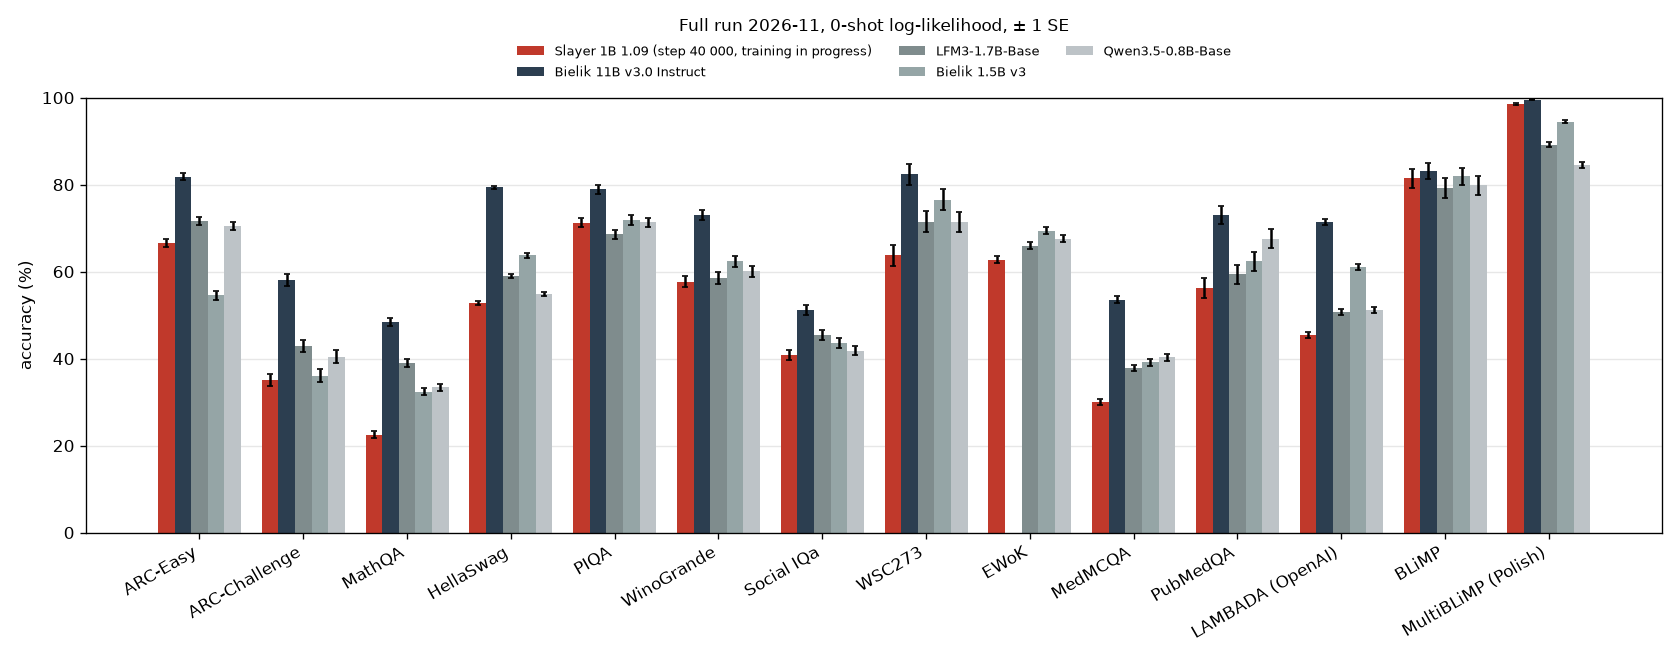
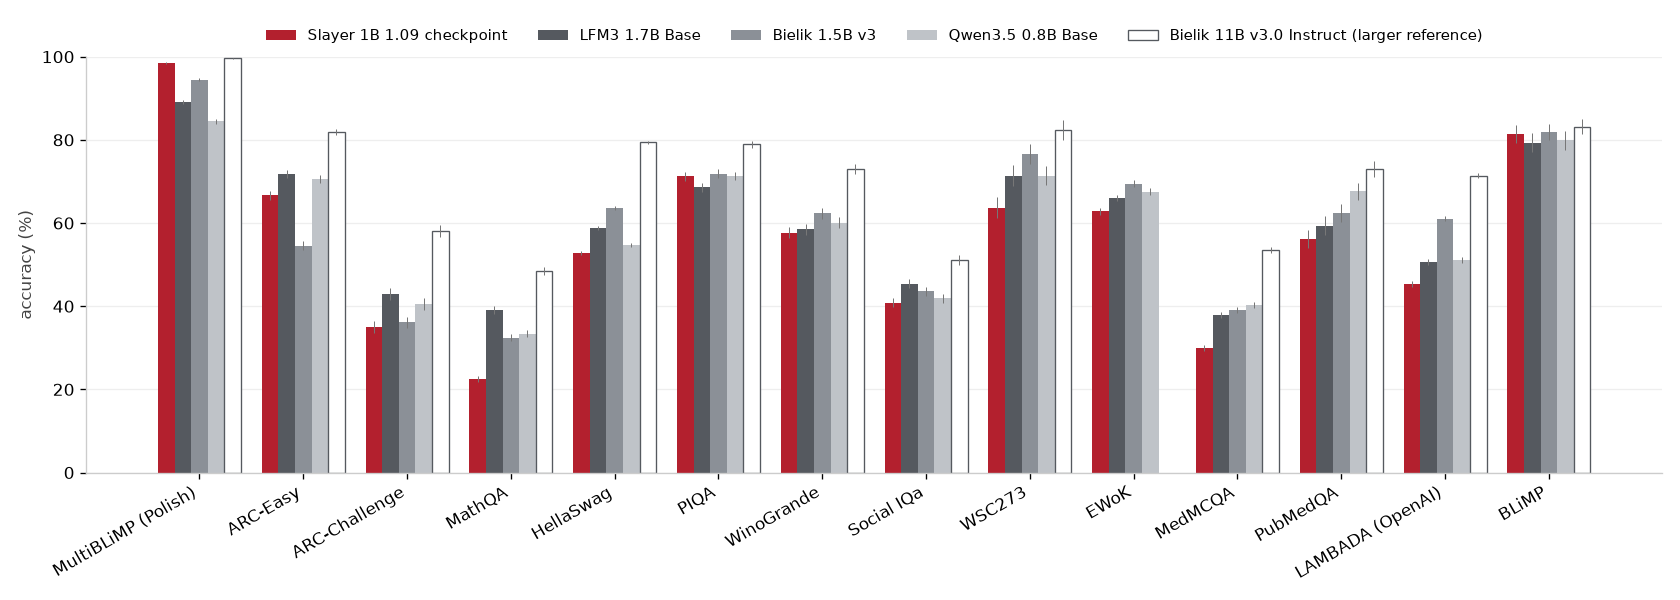
feat(benchmarks): one simple headline table on the results page
The page opens with one table: the four small models ranked per row (best
bold, second underlined), Bielik 11B as an unranked larger reference,
Polish first, values without SE. The chart follows the same models.

diff --git a/benchmarks/src/codesota/leaderboard.py b/benchmarks/src/codesota/leaderboard.py
@@ -19,7 +19,7 @@ import sys
 from collections.abc import Iterable, Sequence
 from dataclasses import asdict, dataclass
 from pathlib import Path
-from typing import Final
+from typing import Any, Final
 
 from codesota import catalog
 
@@ -303,51 +303,107 @@ def cell(r: Result | None) -> str:
     return shown(r) + (" †" if r.review_flag != "ok" else "")
 
 
+# The headline table: the latest Slayer and the models of its size class, ranked per row, then a larger reference
+# shown next to them but not ranked. Column headers: name and a second line.
+RANKED: Final = (LATEST_SLAYER, "lfm3-1.7b-base", "bielik-1.5b-v3", "qwen3.5-0.8b-base")
+LARGER: Final = ("bielik-11b-v3-instruct",)
+HEADER: Final[dict[str, tuple[str, str]]] = {
+    LATEST_SLAYER: ("Slayer 1B", "1.09 checkpoint"),
+    "lfm3-1.7b-base": ("LFM3", "1.7B Base"),
+    "bielik-1.5b-v3": ("Bielik", "1.5B v3"),
+    "qwen3.5-0.8b-base": ("Qwen3.5", "0.8B Base"),
+    "bielik-11b-v3-instruct": ("Bielik 11B", "v3.0 Instruct"),
+}
+# Row groups of the headline table: Polish first, then English by category.
+SECTIONS: Final[tuple[tuple[str, tuple[str, ...]], ...]] = (
+    ("Polish", CATEGORIES["Polish"]),
+    ("English · reasoning and science", CATEGORIES["Reasoning and science"]),
+    ("English · commonsense", CATEGORIES["Commonsense"]),
+    ("English · medical knowledge", CATEGORIES["Knowledge (medical)"]),
+    ("English · language modeling and grammar", CATEGORIES["Language modeling and linguistics"]),
+)
+
+
+def value_text(r: Result) -> str:
+    """The value alone, as the headline shows it: accuracy in percent with one decimal, perplexity with three."""
+    if r.unit == "byte_ppl":
+        return f"{r.value:.3f}"
+    return f"{r.value * (1.0 if r.unit == 'percent' else 100.0):.1f}"
+
+
+def ranks(cells: Sequence[Result | None]) -> list[int | None]:
+    """Rank of each cell among the others (1 = best), by the shown value, so equal shown values share a rank."""
+    present = [c for c in cells if c is not None]
+    values = sorted({float(value_text(c)) for c in present}, reverse=present[0].higher_is_better)
+    return [None if c is None else values.index(float(value_text(c))) + 1 for c in cells]
+
+
+def _marked(text: str, rank: int | None) -> str:
+    return f"<b>{text}</b>" if rank == 1 else f"<ins>{text}</ins>" if rank == 2 else text
+
+
+def headline_table(rows: Sequence[Result]) -> list[str]:
+    """The headline as an HTML table (GitHub renders it; Markdown tables cannot have group rows)."""
+    by = {(r.benchmark, r.model): r for r in rows if r.protocol == "full-run-2026-11"}
+    models = (*RANKED, *LARGER)
+    head = "".join(f"<th>{HEADER[m][0]}<br><sub>{HEADER[m][1]}</sub></th>" for m in models)
+    lines = ["<table>", f'<tr><th align="left">Benchmark</th>{head}</tr>']
+    for section, benchmarks in SECTIONS:
+        lines.append(f'<tr><td colspan="{1 + len(models)}"><b>{section}</b></td></tr>')
+        for b in benchmarks:
+            cells = [by.get((b, m)) for m in models]
+            if all(c is None for c in cells):
+                continue
+            ranked = ranks(cells[: len(RANKED)]) + [None] * len(LARGER)
+            first = next(c for c in cells if c is not None)
+            name = benchmark_name(b) + ("" if first.higher_is_better else " ↓")
+            tds = "".join(
+                f'<td align="right">{"n/a" if c is None else _marked(value_text(c), k)}</td>'
+                for c, k in zip(cells, ranked, strict=True)
+            )
+            lines.append(f"<tr><td>{name}</td>{tds}</tr>")
+    lines.append("</table>")
+    return lines
+
+
 def readme(rows: Sequence[Result]) -> str:
-    log_lik = [r for r in rows if r.protocol == "full-run-2026-11"]
+    ifeval_rows = {r.model: r for r in rows if r.benchmark == "ifeval"}
+    slayer_if, bielik_if = ifeval_rows["slayer1b-1.08"], ifeval_rows["bielik-11b-v3.1"]
     lines = [
         "# Results",
         "",
-        "Every published result of this repository in one place, generated from the research pipeline's result files",
-        "by `python -m codesota.leaderboard` (do not edit by hand). Slayer 1B first, next to reference models.",
+        "Slayer 1B next to models of its size, on the same benchmarks with the same settings.",
+        "",
+        *headline_table(rows),
+        "",
+        "Accuracy in %, 0-shot. ↓ lower is better (WikiText-2: perplexity per byte). **Bold**: best of the four "
+        "small models, <ins>underlined</ins>: second. Bielik 11B is about ten times larger and is shown for "
+        "reference, without a rank.",
+        "",
+        f"**Instruction following (IFEval):** Bielik 11B v3.1 Instruct {value_text(bielik_if)}, "
+        f"Slayer 1B 1.08 {value_text(slayer_if)}. Slayer is a base model without a chat template, so its score "
+        "mostly reflects broken output, not instruction following. [Details](instruction-following.md).",
+        "",
+        '<p align="center"><img src="charts/headline.png" alt="Accuracy per benchmark: Slayer 1B 1.09 and the '
+        'reference models" width="100%"></p>',
         "",
         "[All models](all-models.md) · [Instruction following](instruction-following.md) · "
         "[All results as JSONL](results.jsonl) · [Benchmark status](../BENCHMARKS.md)",
         "",
-        '<p align="center"><img src="charts/headline.png" alt="Slayer 1B 1.09 and reference models, accuracy '
-        'per benchmark" width="100%"></p>',
+        "## Notes",
         "",
-        "## Headline",
-        "",
-        f"Value ± standard error; accuracies in percent. Protocol: {PROTOCOLS['full-run-2026-11']} {SE_NOTE}",
-        "",
-    ]
-    for category, benchmarks in CATEGORIES.items():
-        if category == "Instruction following":
-            continue
-        lines += [f"### {category}", "", *table(log_lik, HEADLINE, benchmarks), ""]
-    lines += [
-        "### Instruction following",
-        "",
-        "Bielik 11B is v3.1 here; the log-likelihood tables above have v3.0, the version the full run measured. "
-        f"{PROTOCOLS['ifeval-api']} {SLAYER_IFEVAL_NOTE} Every IFEval result, with the other setups: "
-        "[instruction-following.md](instruction-following.md).",
-        "",
-        *_ifeval_table(rows, ("slayer1b-1.08", "bielik-11b-v3.1")),
-        "",
-        "## Read with care",
-        "",
-        "- **Not one class.** Bielik 11B has ten times the parameters of the others, and it and LFM3-1.7B "
-        "(in the full tables) are instruction-tuned models scored here on raw text.",
-        "- **Slayer 1B 1.09 at step 40 000 is a training checkpoint**, not a release; its result is preliminary. The "
-        "research report of the run keeps it out of its comparison table for that reason; it leads this page as the "
-        "latest Slayer measured.",
-        "- **Flags.** Results the research review flagged for checking are marked † in the "
-        "[full tables](all-models.md); none is in the headline.",
-        "- **A difference between two models needs a paired test**, not two overlapping intervals; the research "
-        "report has them ([full run](../../research/results/full-run-2026-11/README.md)).",
-        "- **Status.** Only benchmarks marked `verified` in [BENCHMARKS.md](../BENCHMARKS.md) have a reproduced "
-        "reference result; the others are measurements without that check.",
+        "- **Slayer 1B 1.09 is a training checkpoint** (step 40 000), not a release.",
+        "- **How it was measured:** the full test set of each benchmark, 0-shot, each answer scored by the "
+        "model's probability of it (lm-eval; BLiMP and EWoK: their own code), float32 (Bielik 11B: bfloat16), "
+        "no chat template. Slayer's "
+        "inputs start with one BOS token, the other models' with none.",
+        "- **Small differences are noise.** Values with their standard errors are in [all models](all-models.md) "
+        f"and [`results.jsonl`](results.jsonl); a difference of one or two points is often within them. {SE_NOTE}",
+        "- **Bielik 11B and LFM3-1.7B (in the full tables) are instruction-tuned**, scored here on raw text like "
+        "the base models.",
+        "- Results flagged for checking by the research review are marked † in the [full tables](all-models.md); "
+        "none is on this page.",
+        "- Generated by `python -m codesota.leaderboard` from the result files below; do not edit by hand.",
         "",
         "## Sources",
         "",
@@ -480,12 +536,21 @@ def charts(rows: Sequence[Result], out: Path) -> None:
     import matplotlib.pyplot as plt
 
     log_lik = [r for r in rows if r.protocol == "full-run-2026-11" and r.unit != "byte_ppl"]
-    benchmarks = [b for bs in CATEGORIES.values() for b in bs if any(r.benchmark == b for r in log_lik)]
+    benchmarks = [b for _, bs in SECTIONS for b in bs if any(r.benchmark == b for r in log_lik)]
     by = {(r.benchmark, r.model): r for r in log_lik}
-    width = 0.8 / len(HEADLINE)
-    fig, ax = plt.subplots(figsize=(14, 5.5), dpi=120)
-    colors = ("#c0392b", "#2c3e50", "#7f8c8d", "#95a5a6", "#bdc3c7")
-    for i, (m, color) in enumerate(zip(HEADLINE, colors, strict=True)):
+    models = (*RANKED, *LARGER)
+    width = 0.8 / len(models)
+    plt.rcParams.update({"font.family": "DejaVu Sans", "axes.edgecolor": "#cccccc", "axes.labelcolor": "#444444"})
+    fig, ax = plt.subplots(figsize=(14, 5), dpi=120)
+    # Slayer in red, the other small models in greys, the larger reference as an outline.
+    styles: tuple[dict[str, Any], ...] = (
+        {"color": "#b3202e"},
+        {"color": "#55595f"},
+        {"color": "#8b9097"},
+        {"color": "#bfc3c8"},
+        {"color": "white", "edgecolor": "#55595f", "linewidth": 0.8},
+    )
+    for i, (m, style) in enumerate(zip(models, styles, strict=True)):
         xs, ys, es = [], [], []
         for j, b in enumerate(benchmarks):
             r = by.get((b, m))
@@ -495,14 +560,15 @@ def charts(rows: Sequence[Result], out: Path) -> None:
             xs.append(j - 0.4 + width * (i + 0.5))
             ys.append(r.value * scale)
             es.append((r.se or 0.0) * scale)
-        ax.bar(xs, ys, width, yerr=es, color=color, label=MODELS[m].name, capsize=2, linewidth=0)
+        label = " ".join(HEADER[m]) + (" (larger reference)" if m in LARGER else "")
+        ax.bar(xs, ys, width, yerr=es, label=label, error_kw={"elinewidth": 0.6, "ecolor": "#777777"}, **style)
     ax.set_xticks(range(len(benchmarks)), [benchmark_name(b) for b in benchmarks], rotation=30, ha="right")
     ax.set_ylabel("accuracy (%)")
     ax.set_ylim(0, 100)
-    ax.grid(axis="y", alpha=0.3)
+    ax.grid(axis="y", color="#eeeeee")
     ax.set_axisbelow(True)
-    ax.legend(ncol=3, fontsize=8, frameon=False, loc="upper center", bbox_to_anchor=(0.5, 1.15))
-    ax.set_title("Full run 2026-11, 0-shot log-likelihood, ± 1 SE", fontsize=10, pad=40)
+    ax.spines[["top", "right"]].set_visible(False)
+    ax.legend(ncol=5, fontsize=9, frameon=False, loc="upper center", bbox_to_anchor=(0.5, 1.1))
     fig.tight_layout()
     out.mkdir(parents=True, exist_ok=True)
     fig.savefig(out / "headline.png", metadata={"Software": None})

diff --git a/benchmarks/tests/test_leaderboard.py b/benchmarks/tests/test_leaderboard.py
@@ -5,6 +5,7 @@ column, a wrong scale, a lost standard error, or a swapped file fails a test.
 """
 
 import json
+import re
 from pathlib import Path
 from typing import Any
 
@@ -72,32 +73,51 @@ def test_every_ifeval_row_matches_its_file() -> None:
         assert row["model"] in (src["model"], f"{src['model']}-ifeval")
 
 
-def test_headline_cells_show_each_model_s_own_source_value() -> None:
-    """Every cell of the headline tables, recomputed from manifest.jsonl for its column's model."""
-    src = {(r["benchmark"], r["model"]): r for r in published()}
+def headline_rows() -> list[tuple[str, list[str]]]:
+    """The benchmark rows of the headline table: the benchmark's name and its cells' HTML."""
     readme = (leaderboard.OUT / "README.md").read_text(encoding="utf-8")
+    out = []
+    for row in re.findall(r"<tr><td>(.*?)</td>(.*?)</tr>", readme):
+        out.append((row[0], re.findall(r'<td align="right">(.*?)</td>', row[1])))
+    return out
+
+
+def test_headline_cells_show_each_model_s_own_source_value() -> None:
+    """Every cell of the headline table, recomputed from manifest.jsonl for its column's model."""
+    src = {(r["benchmark"], r["model"]): r for r in published()}
     names = {leaderboard.benchmark_name(b): b for b in leaderboard.CATEGORY_OF}
+    models = (*leaderboard.RANKED, *leaderboard.LARGER)
     checked = 0
-    for line in readme.splitlines():
-        cells = [c.strip() for c in line.strip("|").split("|")]
-        if not line.startswith("| ") or cells[0] not in names or len(cells) != 2 + len(leaderboard.HEADLINE):
-            continue
-        benchmark = names[cells[0]]
-        for model, text in zip(leaderboard.HEADLINE, cells[2:], strict=True):
+    for name, cells in headline_rows():
+        benchmark = names[name.removesuffix(" ↓")]
+        assert len(cells) == len(models)
+        for model, text in zip(models, cells, strict=True):
             row = src.get((benchmark, model))
             if row is None:
                 assert text == "n/a"
                 continue
             scale = 1.0 if row["metryka"] in ("accuracy", "byte_perplexity,none") else 100.0
             digits = 3 if row["metryka"].startswith("byte_perplexity") else 1
-            expected = f"{row['wartosc'] * scale:.{digits}f} ± {row['se'] * scale:.{digits}f}"
-            assert text == expected, (benchmark, model)
+            assert re.sub(r"</?(b|ins)>", "", text) == f"{row['wartosc'] * scale:.{digits}f}", (benchmark, model)
             checked += 1
     assert checked >= 60
 
 
+def test_headline_marks_the_best_and_second_of_the_ranked_models() -> None:
+    """Bold is the best shown value of the ranked models, underlined the next one; the cells' values are checked
+    against the sources above."""
+    n = len(leaderboard.RANKED)
+    for name, cells in headline_rows():
+        values = [float(re.sub(r"</?(b|ins)>", "", t)) for t in cells[:n]]
+        order = sorted(set(values), reverse=not name.endswith(" ↓"))
+        for value, text in zip(values, cells[:n], strict=True):
+            assert text.startswith("<b>") == (value == order[0]), (name, text)
+            assert text.startswith("<ins>") == (value == order[1]), (name, text)
+        assert not any(t.startswith(("<b>", "<ins>")) for t in cells[n:]), name  # the larger model is not ranked
+
+
 def test_the_headline_has_no_flagged_result() -> None:
-    # README.md says so in "Read with care"; this keeps the sentence true.
+    # README.md says so in its notes; this keeps the sentence true.
     flagged = [r for r in leaderboard.collect() if r.model in leaderboard.HEADLINE and r.review_flag != "ok"]
     assert flagged == []
 

diff --git a/benchmarks/results/README.md b/benchmarks/results/README.md
@@ -1,72 +1,47 @@
 # Results
 
-Every published result of this repository in one place, generated from the research pipeline's result files
-by `python -m codesota.leaderboard` (do not edit by hand). Slayer 1B first, next to reference models.
+Slayer 1B next to models of its size, on the same benchmarks with the same settings.
+
+<table>
+<tr><th align="left">Benchmark</th><th>Slayer 1B<br><sub>1.09 checkpoint</sub></th><th>LFM3<br><sub>1.7B Base</sub></th><th>Bielik<br><sub>1.5B v3</sub></th><th>Qwen3.5<br><sub>0.8B Base</sub></th><th>Bielik 11B<br><sub>v3.0 Instruct</sub></th></tr>
+<tr><td colspan="6"><b>Polish</b></td></tr>
+<tr><td>MultiBLiMP (Polish)</td><td align="right"><b>98.6</b></td><td align="right">89.2</td><td align="right"><ins>94.5</ins></td><td align="right">84.5</td><td align="right">99.6</td></tr>
+<tr><td colspan="6"><b>English · reasoning and science</b></td></tr>
+<tr><td>ARC-Easy</td><td align="right">66.6</td><td align="right"><b>71.7</b></td><td align="right">54.6</td><td align="right"><ins>70.5</ins></td><td align="right">81.9</td></tr>
+<tr><td>ARC-Challenge</td><td align="right">35.0</td><td align="right"><b>42.9</b></td><td align="right">36.1</td><td align="right"><ins>40.4</ins></td><td align="right">58.1</td></tr>
+<tr><td>MathQA</td><td align="right">22.5</td><td align="right"><b>39.1</b></td><td align="right">32.4</td><td align="right"><ins>33.4</ins></td><td align="right">48.5</td></tr>
+<tr><td colspan="6"><b>English · commonsense</b></td></tr>
+<tr><td>HellaSwag</td><td align="right">52.8</td><td align="right"><ins>58.9</ins></td><td align="right"><b>63.7</b></td><td align="right">54.8</td><td align="right">79.4</td></tr>
+<tr><td>PIQA</td><td align="right">71.2</td><td align="right">68.6</td><td align="right"><b>71.9</b></td><td align="right"><ins>71.3</ins></td><td align="right">78.9</td></tr>
+<tr><td>WinoGrande</td><td align="right">57.7</td><td align="right">58.6</td><td align="right"><b>62.4</b></td><td align="right"><ins>60.1</ins></td><td align="right">73.0</td></tr>
+<tr><td>Social IQa</td><td align="right">40.9</td><td align="right"><b>45.4</b></td><td align="right"><ins>43.6</ins></td><td align="right">41.9</td><td align="right">51.1</td></tr>
+<tr><td>WSC273</td><td align="right">63.7</td><td align="right"><ins>71.4</ins></td><td align="right"><b>76.6</b></td><td align="right"><ins>71.4</ins></td><td align="right">82.4</td></tr>
+<tr><td>EWoK</td><td align="right">62.8</td><td align="right">66.0</td><td align="right"><b>69.5</b></td><td align="right"><ins>67.6</ins></td><td align="right">n/a</td></tr>
+<tr><td colspan="6"><b>English · medical knowledge</b></td></tr>
+<tr><td>MedMCQA</td><td align="right">30.1</td><td align="right">37.8</td><td align="right"><ins>39.1</ins></td><td align="right"><b>40.3</b></td><td align="right">53.6</td></tr>
+<tr><td>PubMedQA</td><td align="right">56.2</td><td align="right">59.4</td><td align="right"><ins>62.4</ins></td><td align="right"><b>67.6</b></td><td align="right">73.0</td></tr>
+<tr><td colspan="6"><b>English · language modeling and grammar</b></td></tr>
+<tr><td>LAMBADA (OpenAI)</td><td align="right">45.4</td><td align="right">50.7</td><td align="right"><b>61.1</b></td><td align="right"><ins>51.2</ins></td><td align="right">71.4</td></tr>
+<tr><td>WikiText-2 ↓</td><td align="right">1.702</td><td align="right"><b>1.616</b></td><td align="right"><ins>1.674</ins></td><td align="right">1.717</td><td align="right">1.566</td></tr>
+<tr><td>BLiMP</td><td align="right"><ins>81.5</ins></td><td align="right">79.3</td><td align="right"><b>81.9</b></td><td align="right">79.9</td><td align="right">83.2</td></tr>
+</table>
+
+Accuracy in %, 0-shot. ↓ lower is better (WikiText-2: perplexity per byte). **Bold**: best of the four small models, <ins>underlined</ins>: second. Bielik 11B is about ten times larger and is shown for reference, without a rank.
+
+**Instruction following (IFEval):** Bielik 11B v3.1 Instruct 55.3, Slayer 1B 1.08 18.1. Slayer is a base model without a chat template, so its score mostly reflects broken output, not instruction following. [Details](instruction-following.md).
+
+<p align="center"><img src="charts/headline.png" alt="Accuracy per benchmark: Slayer 1B 1.09 and the reference models" width="100%"></p>
 
 [All models](all-models.md) · [Instruction following](instruction-following.md) · [All results as JSONL](results.jsonl) · [Benchmark status](../BENCHMARKS.md)
 
-<p align="center"><img src="charts/headline.png" alt="Slayer 1B 1.09 and reference models, accuracy per benchmark" width="100%"></p>
+## Notes
 
-## Headline
-
-Value ± standard error; accuracies in percent. Protocol: research central run of November 2026: 0-shot log-likelihood scoring through lm-eval, full test sets, float32 (Bielik 11B: bfloat16), batch 1, no chat template. Slayer requests start with one BOS token, the reference models' requests with none (measured on Pythia-1B v0 only: at most 0.0105 difference). Standard errors are over questions, except over minimal-pair paradigms for BLiMP, over item templates for EWoK, over twin-sentence pairs for WinoGrande, and over schemas for WSC273.
-
-### Reasoning and science
-
-| benchmark | metric | Slayer 1B 1.09 (step 40 000, training in progress) | Bielik 11B v3.0 Instruct | LFM3-1.7B-Base | Bielik 1.5B v3 | Qwen3.5-0.8B-Base |
-|---|---|---:|---:|---:|---:|---:|
-| ARC-Easy | `acc` ↑ | 66.6 ± 1.0 | 81.9 ± 0.8 | 71.7 ± 0.9 | 54.6 ± 1.0 | 70.5 ± 0.9 |
-| ARC-Challenge | `acc_norm` ↑ | 35.0 ± 1.4 | 58.1 ± 1.4 | 42.9 ± 1.4 | 36.1 ± 1.4 | 40.4 ± 1.4 |
-| MathQA | `acc_norm` ↑ | 22.5 ± 0.8 | 48.5 ± 0.9 | 39.1 ± 0.9 | 32.4 ± 0.9 | 33.4 ± 0.9 |
-
-### Commonsense
-
-| benchmark | metric | Slayer 1B 1.09 (step 40 000, training in progress) | Bielik 11B v3.0 Instruct | LFM3-1.7B-Base | Bielik 1.5B v3 | Qwen3.5-0.8B-Base |
-|---|---|---:|---:|---:|---:|---:|
-| HellaSwag | `acc_norm` ↑ | 52.8 ± 0.5 | 79.4 ± 0.4 | 58.9 ± 0.5 | 63.7 ± 0.5 | 54.8 ± 0.5 |
-| PIQA | `acc_norm` ↑ | 71.2 ± 1.1 | 78.9 ± 1.0 | 68.6 ± 1.1 | 71.9 ± 1.0 | 71.3 ± 1.1 |
-| WinoGrande | `acc` ↑ | 57.7 ± 1.3 | 73.0 ± 1.2 | 58.6 ± 1.3 | 62.4 ± 1.3 | 60.1 ± 1.3 |
-| Social IQa | `acc` ↑ | 40.9 ± 1.1 | 51.1 ± 1.1 | 45.4 ± 1.1 | 43.6 ± 1.1 | 41.9 ± 1.1 |
-| WSC273 | `acc` ↑ | 63.7 ± 2.4 | 82.4 ± 2.4 | 71.4 ± 2.4 | 76.6 ± 2.4 | 71.4 ± 2.3 |
-| EWoK | `ewok` ↑ | 62.8 ± 0.8 | n/a | 66.0 ± 0.8 | 69.5 ± 0.8 | 67.6 ± 0.8 |
-
-### Knowledge (medical)
-
-| benchmark | metric | Slayer 1B 1.09 (step 40 000, training in progress) | Bielik 11B v3.0 Instruct | LFM3-1.7B-Base | Bielik 1.5B v3 | Qwen3.5-0.8B-Base |
-|---|---|---:|---:|---:|---:|---:|
-| MedMCQA | `acc` ↑ | 30.1 ± 0.7 | 53.6 ± 0.8 | 37.8 ± 0.7 | 39.1 ± 0.8 | 40.3 ± 0.8 |
-| PubMedQA | `acc` ↑ | 56.2 ± 2.2 | 73.0 ± 2.0 | 59.4 ± 2.2 | 62.4 ± 2.2 | 67.6 ± 2.1 |
-
-### Language modeling and linguistics
-
-| benchmark | metric | Slayer 1B 1.09 (step 40 000, training in progress) | Bielik 11B v3.0 Instruct | LFM3-1.7B-Base | Bielik 1.5B v3 | Qwen3.5-0.8B-Base |
-|---|---|---:|---:|---:|---:|---:|
-| LAMBADA (OpenAI) | `acc` ↑ | 45.4 ± 0.7 | 71.4 ± 0.6 | 50.7 ± 0.7 | 61.1 ± 0.7 | 51.2 ± 0.7 |
-| WikiText-2 | `byte_perplexity` ↓ | 1.702 ± 0.016 | 1.566 ± 0.011 | 1.616 ± 0.014 | 1.674 ± 0.011 | 1.717 ± 0.013 |
-| BLiMP | `acc` ↑ | 81.5 ± 2.1 | 83.2 ± 1.8 | 79.3 ± 2.3 | 81.9 ± 2.0 | 79.9 ± 2.2 |
-
-### Polish
-
-| benchmark | metric | Slayer 1B 1.09 (step 40 000, training in progress) | Bielik 11B v3.0 Instruct | LFM3-1.7B-Base | Bielik 1.5B v3 | Qwen3.5-0.8B-Base |
-|---|---|---:|---:|---:|---:|---:|
-| MultiBLiMP (Polish) | `accuracy` ↑ | 98.6 ± 0.2 | 99.6 ± 0.1 | 89.2 ± 0.5 | 94.5 ± 0.4 | 84.5 ± 0.6 |
-
-### Instruction following
-
-Bielik 11B is v3.1 here; the log-likelihood tables above have v3.0, the version the full run measured. IFEval (#313): lm-eval 0.4.9.1, 541 prompts. Slayer: local GPU, raw prompt, greedy, up to 1280 tokens. Bielik: Fabryka API with its chat template, temperature 0.6, top_p 0.95. The protocols differ per model. Slayer 1B is a base model without a chat template; its source reads 18.11 as the score of mostly degenerate output, not as instruction following. Every IFEval result, with the other setups: [instruction-following.md](instruction-following.md).
-
-| model | how it ran | prompt-level strict accuracy | n |
-|---|---|---:|---:|
-| Slayer 1B 1.08 | local GPU, raw prompt, greedy | 18.1 ± 1.7 | 541 |
-| Bielik 11B v3.1 Instruct | Fabryka API, chat template, sampled | 55.3 ± 2.1 | 541 |
-
-## Read with care
-
-- **Not one class.** Bielik 11B has ten times the parameters of the others, and it and LFM3-1.7B (in the full tables) are instruction-tuned models scored here on raw text.
-- **Slayer 1B 1.09 at step 40 000 is a training checkpoint**, not a release; its result is preliminary. The research report of the run keeps it out of its comparison table for that reason; it leads this page as the latest Slayer measured.
-- **Flags.** Results the research review flagged for checking are marked † in the [full tables](all-models.md); none is in the headline.
-- **A difference between two models needs a paired test**, not two overlapping intervals; the research report has them ([full run](../../research/results/full-run-2026-11/README.md)).
-- **Status.** Only benchmarks marked `verified` in [BENCHMARKS.md](../BENCHMARKS.md) have a reproduced reference result; the others are measurements without that check.
+- **Slayer 1B 1.09 is a training checkpoint** (step 40 000), not a release.
+- **How it was measured:** the full test set of each benchmark, 0-shot, each answer scored by the model's probability of it (lm-eval; BLiMP and EWoK: their own code), float32 (Bielik 11B: bfloat16), no chat template. Slayer's inputs start with one BOS token, the other models' with none.
+- **Small differences are noise.** Values with their standard errors are in [all models](all-models.md) and [`results.jsonl`](results.jsonl); a difference of one or two points is often within them. Standard errors are over questions, except over minimal-pair paradigms for BLiMP, over item templates for EWoK, over twin-sentence pairs for WinoGrande, and over schemas for WSC273.
+- **Bielik 11B and LFM3-1.7B (in the full tables) are instruction-tuned**, scored here on raw text like the base models.
+- Results flagged for checking by the research review are marked † in the [full tables](all-models.md); none is on this page.
+- Generated by `python -m codesota.leaderboard` from the result files below; do not edit by hand.
 
 ## Sources
 
